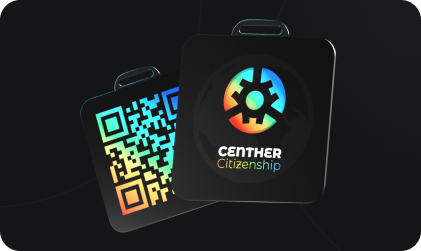
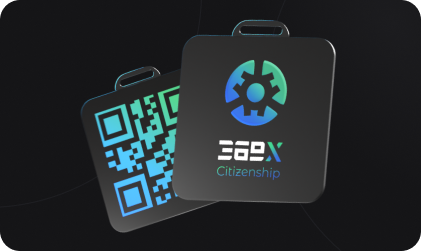
feat: rebranding completed

diff --git a/components/modal/buy-citizenship-modal/index.tsx b/components/modal/buy-citizenship-modal/index.tsx
@@ -123,7 +123,7 @@ export const BuyCitizenshipModal: React.FC<CustomModalProps> = ({
                   <h3
                     className={`animationTextHeading flex-grow text-left text-base font-semibold text-white fsm:text-xl`}
                   >
-                    Centher Passport
+                    369x Passport
                   </h3>
                   <h5 className="text-sm font-medium text-gray-shade-14 fsm:text-base">
                     Breaking the limit
@@ -143,8 +143,8 @@ export const BuyCitizenshipModal: React.FC<CustomModalProps> = ({
                   )}
                   onClick={() => setTab(CitizenShipType.annualMemberShipPrice)}
                 >
-                  <span className="primary-gradient-btn-text primary-btn-text-gradient relative py-1">
-                    Annualy
+                  <span className="primary-gradient-btn-text relative py-1">
+                    Annually
                   </span>
                   <div className="z-30 rounded-full bg-[#17171A] px-2 py-[2px]">
                     <div className="primary-gradient-btn-text block w-max min-w-max text-xs font-medium">

diff --git a/components/nft.image.card/index.tsx b/components/nft.image.card/index.tsx
@@ -6,7 +6,7 @@ import { useRouter } from "next/router";
 import { CgSpinner } from "react-icons/cg";
 import { toast } from "react-hot-toast";
 import { AppRoutes } from "@/constants/app.routes";
-import { HammerIconBG, LockIcon, CentherIcon, LockVector } from "@/assets/svgs";
+import { HammerIconBG, LockIcon, X369XIcon, LockVector } from "@/assets/svgs";
 import { getUTCNow } from "@/web3/utils/utils";
 import { BlockchainRead, BlockchainWrite } from "@/web3/blockchain";
 import { BlockchainConfig } from "@/web3/blockchain/config";
@@ -217,7 +217,7 @@ export const NFTImageCard: React.FC<NFTImageCardProps> = ({ data }) => {
             >
               <div className="flex items-center gap-[6px]">
                 <span className="flex size-4 flex-shrink-0 fsm:size-5">
-                  <CentherIcon />
+                  <X369XIcon />
                 </span>
                 <span className="hidden f2xl:block">369x</span>
               </div>

diff --git a/components/modal/connect-wallet-modal.tsx b/components/modal/connect-wallet-modal.tsx
@@ -1,10 +1,6 @@
 import React, { useEffect, useState } from "react";
 import { IoClose } from "react-icons/io5";
-import {
-  GradientArrowOutline,
-  CentherIcon,
-  NewWalletIcon,
-} from "@/assets/svgs";
+import { GradientArrowOutline, X369XIcon, NewWalletIcon } from "@/assets/svgs";
 import { WalletEnum } from "@/web3/hooks/use.wallet";
 import ModalContainer from "./modal-container";
 
@@ -105,7 +101,7 @@ const ConnectWalletModal: React.FC<Props> = ({
               className="flex w-full cursor-pointer items-center justify-between gap-10 !rounded-xl bg-popup-0 px-5 py-3"
             >
               <div className="flex items-center gap-3 fsm:gap-6">
-                <CentherIcon />
+                <X369XIcon />
                 <h3 className="text-sm font-semibold text-white fmd:text-base">
                   Wallet for Dummies
                 </h3>

diff --git a/pages/staking/create-staking/_components/staking-review-modal.tsx b/pages/staking/create-staking/_components/staking-review-modal.tsx
@@ -9,7 +9,7 @@ import { FiArrowUpRight, FiCopy, FiGithub, FiInstagram } from "react-icons/fi";
 import { isAddress } from "ethers/lib/utils";
 import {
   LinkNewIcon,
-  CentherIcon,
+  X369XIcon,
   NewTelegramIcon,
   NewRedditIcon,
   NewDiscordIcon,
@@ -609,7 +609,7 @@ export const StakingReviewModal: React.FC<CustomModalProps> = ({
                           className="centher-social-button flex select-none items-center gap-2 rounded-[11px] bg-elevation-1 px-[10px] py-[6px] text-xs font-medium text-gray-shade-14"
                         >
                           <span className="h-5 w-5 flex-shrink-0">
-                            <CentherIcon />
+                            <X369XIcon />
                           </span>
                           <span>Centher</span>
                         </a>

diff --git a/pages/staking/staking-details/[id]/_components/details.tsx b/pages/staking/staking-details/[id]/_components/details.tsx
@@ -5,7 +5,7 @@ import { SiBinance } from "react-icons/si";
 import { isAddress } from "ethers/lib/utils";
 import {
   LinkNewIcon,
-  CentherIcon,
+  X369XIcon,
   NewTelegramIcon,
   Whitepaper,
   XIcon,
@@ -146,7 +146,7 @@ const Details: React.FC<{ data: OptionalType<ListCardDataOBj> }> = ({
                 className="centher-social-button flex select-none items-center gap-2 rounded-[11px] bg-elevation-1 px-[10px] py-[6px] text-xs font-medium text-gray-shade-14"
               >
                 <span className="h-5 w-5 flex-shrink-0">
-                  <CentherIcon />
+                  <X369XIcon />
                 </span>
                 <span>369x</span>
               </a>

diff --git a/pages/launchpad/[token_address]/[round]/_components/details-project.tsx b/pages/launchpad/[token_address]/[round]/_components/details-project.tsx
@@ -4,7 +4,7 @@ import { SiBinance } from "react-icons/si";
 import {
   LinkNewIcon,
   NewTelegramIcon,
-  CentherIcon,
+  X369XIcon,
   Whitepaper,
   XLogo,
 } from "@/assets/svgs";
@@ -86,7 +86,7 @@ const DetailsProject = () => {
               className="centher-social-button flex select-none items-center gap-2 rounded-[11px] bg-elevation-1 px-[10px] py-[6px] text-xs font-medium text-gray-shade-14"
             >
               <span className="h-5 w-5 flex-shrink-0">
-                <CentherIcon />
+                <X369XIcon />
               </span>
               <span>369x</span>
             </a>

diff --git a/pages/staking/staking-details/[id]/_components/stake-now.tsx b/pages/staking/staking-details/[id]/_components/stake-now.tsx
@@ -127,7 +127,7 @@ const Booking: React.FC<Props> = ({
                   className="h-5 w-5 flex-shrink-0 object-cover"
                 />
               ) : (
-                <Staking className="h-5 w-5 group-hover:[&>*]:stroke-white" />
+                <Staking className="h-5 w-5 stroke-white group-hover:[&>*]:stroke-white" />
               )}
 
               <p className="text-xs font-semibold text-white">

diff --git a/assets/svgs/index.tsx b/assets/svgs/index.tsx
@@ -192,6 +192,7 @@ export { default as NewUnlockWalletIcon } from "./new-unlock-wallet-icon.svg";
 export { default as NewCalendarIcon } from "./new-calendar-icon.svg";
 export { default as CrownIcon } from "./crown-icon.svg";
 export { default as GiftIcon } from "./gift-icon.svg";
+export { default as X369XIcon } from "./369x.icon.svg";
 
 export const X369xIcon: React.FC<IconProps> = (props) => {
   return (

diff --git a/styles/globals.css b/styles/globals.css
@@ -888,7 +888,7 @@
   .gradient-borders-2 {
     border: 1px solid transparent;
     background-image: linear-gradient(#1b1c22, #1b1c22),
-      radial-gradient(circle at top right, #21bf7f 0%, #115dcb 100%);
+      radial-gradient(circle at top right, #115dcb 0%, #21bf7f 100%);
     background-origin: border-box;
     background-clip: content-box, border-box;
   }
